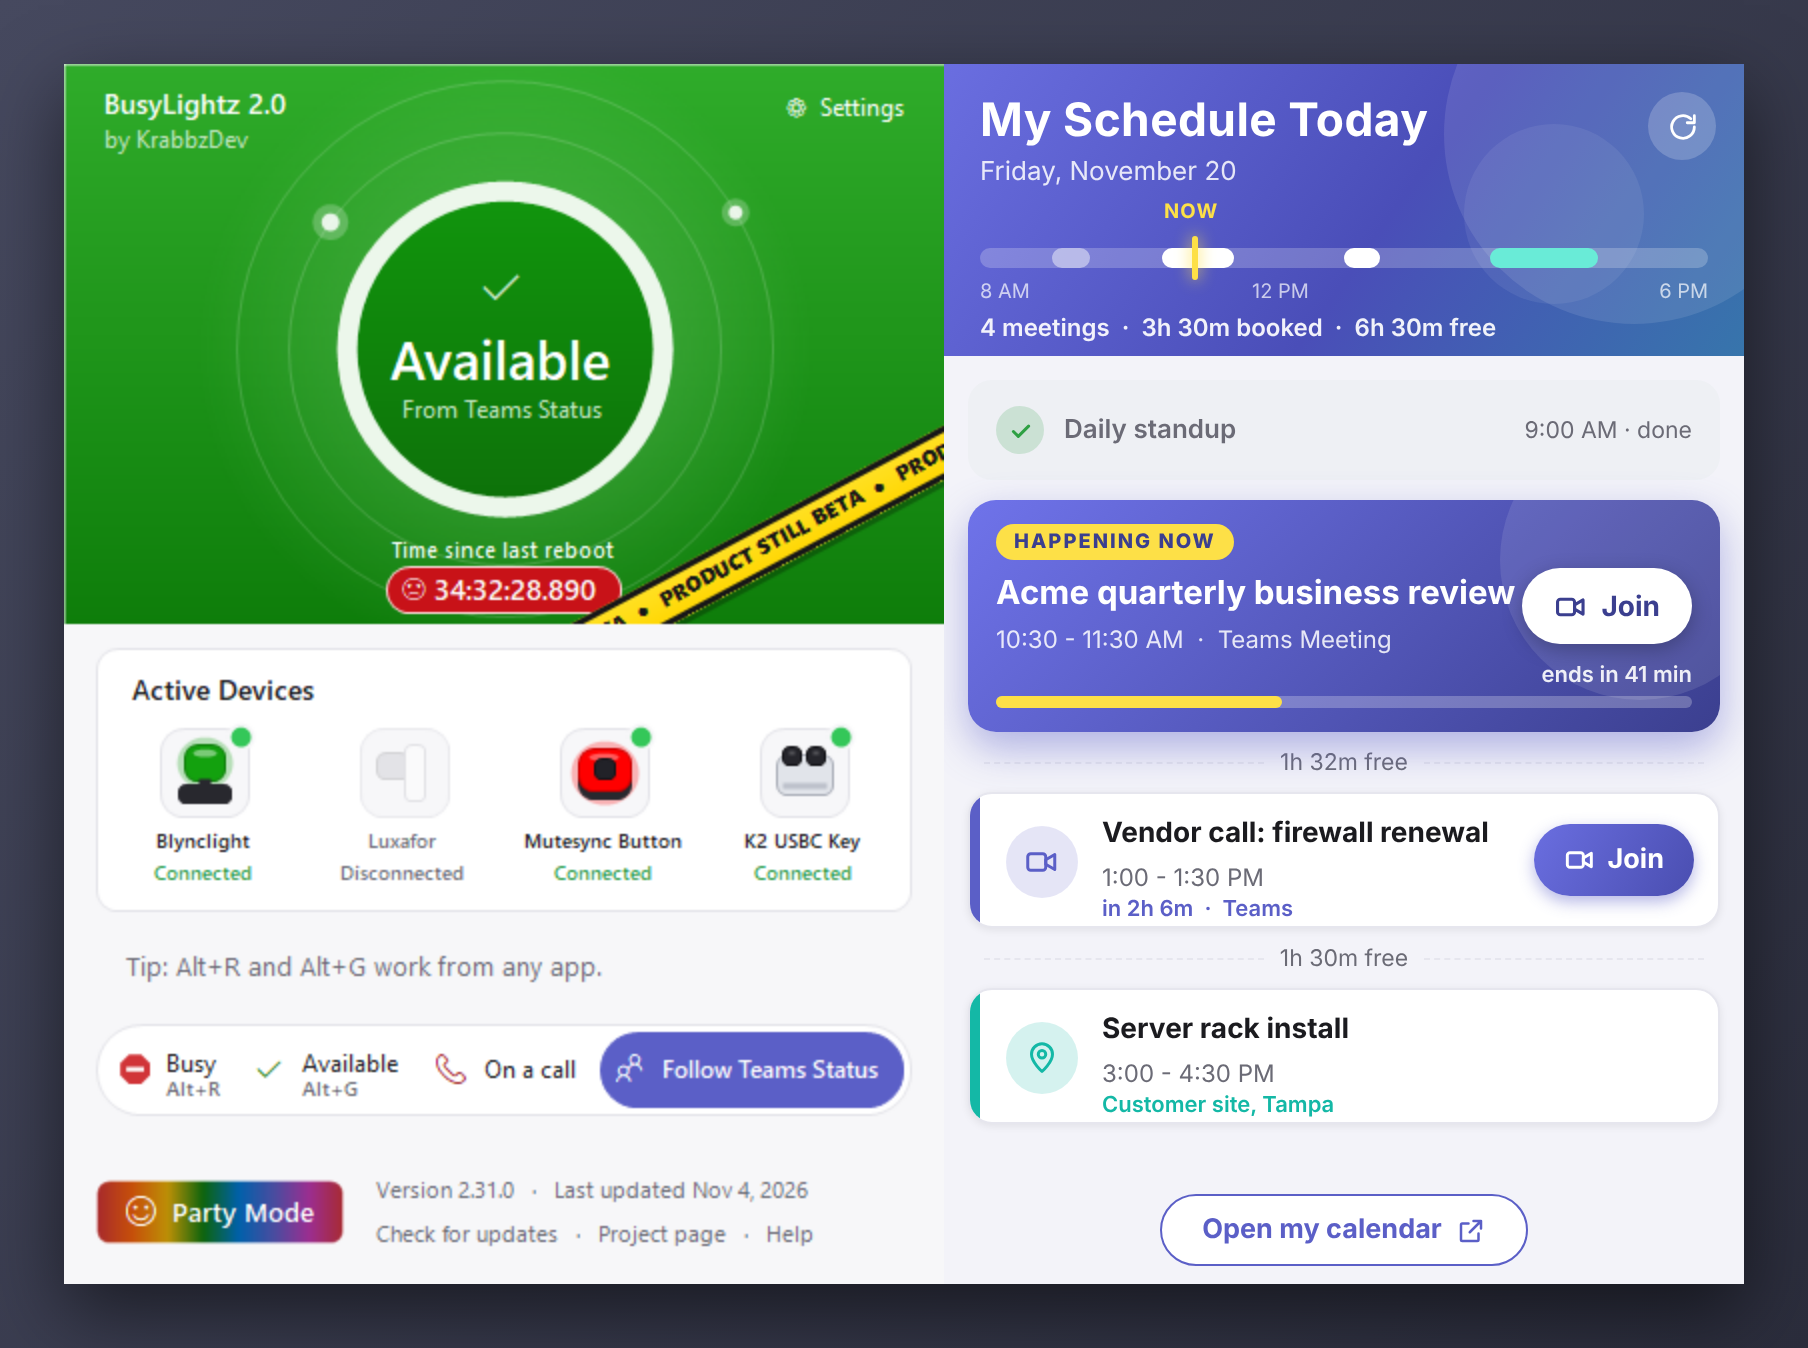
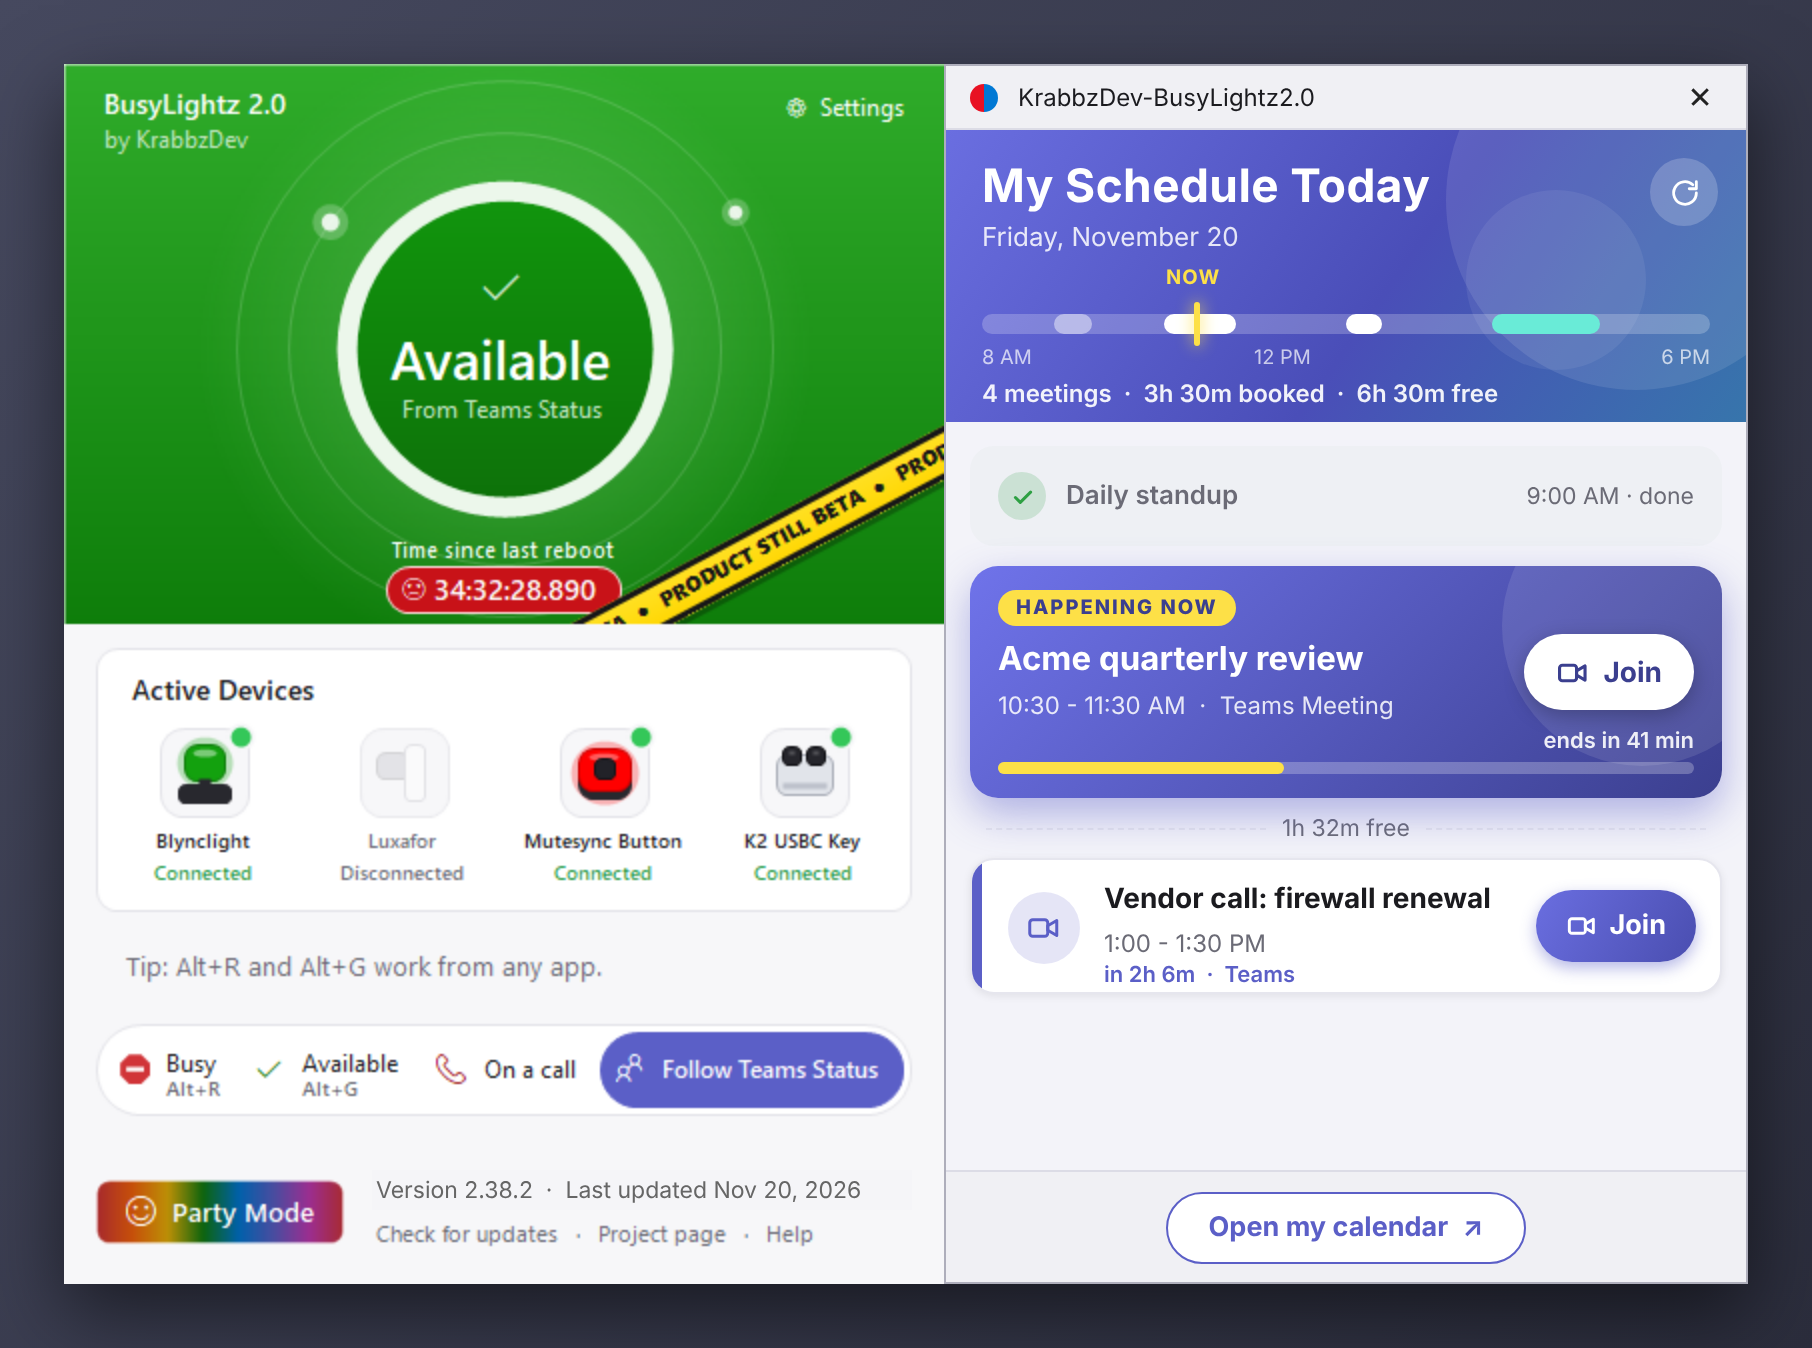
Add a close button to the schedule panel's title bar; update the guide and its picture
Claude-Session: https://claude.ai/code/session_01GA9X8tEuuR7MS1XohWZLFh

diff --git a/src/MeetingAlerts.cs b/src/MeetingAlerts.cs
@@ -792,6 +792,8 @@ namespace Krabbz.Blynclight
         void AddTitleBar()
         {
             titleBar.Bounds = new Rectangle(Frame, Frame, FormWidth, TitleHeight);
+            var closeRect = new Rectangle(FormWidth - 46, 0, 46, TitleHeight - 1);
+            bool overClose = false;
             titleBar.Paint += (sender, e) =>
             {
                 var g = e.Graphics;
@@ -799,8 +801,30 @@ namespace Krabbz.Blynclight
                 g.Clear(BarColor);
                 using (var red = new SolidBrush(Color.FromArgb(232, 17, 35))) g.FillPie(red, 12, 9, 14, 14, 90, 180);
                 using (var blue = new SolidBrush(Color.FromArgb(0, 120, 212))) g.FillPie(blue, 12, 9, 14, 14, 270, 180);
-                AgendaDraw.Left(g, Program.AppName, SmallFont, Theme.Text, new Rectangle(36, 0, FormWidth - 48, TitleHeight));
-                using (var pen = new Pen(Theme.Border)) g.DrawLine(pen, 0, TitleHeight - 1, FormWidth, TitleHeight - 1);
+                AgendaDraw.Left(g, Program.AppName, SmallFont, Theme.Text, new Rectangle(36, 0, FormWidth - 90, TitleHeight));
+                // The close button, red under the pointer like Windows' own.
+                if (overClose) using (var hot = new SolidBrush(Color.FromArgb(232, 17, 35))) g.FillRectangle(hot, closeRect);
+                using (var pen = new Pen(overClose ? Color.White : Theme.Text, 1.2f))
+                {
+                    int cx = closeRect.X + closeRect.Width / 2, cy = closeRect.Y + closeRect.Height / 2;
+                    g.DrawLine(pen, cx - 5, cy - 5, cx + 5, cy + 5);
+                    g.DrawLine(pen, cx - 5, cy + 5, cx + 5, cy - 5);
+                }
+                using (var line = new Pen(Theme.Border)) g.DrawLine(line, 0, TitleHeight - 1, FormWidth, TitleHeight - 1);
+            };
+            titleBar.MouseMove += (sender, e) =>
+            {
+                bool inside = closeRect.Contains(e.Location);
+                if (inside != overClose) { overClose = inside; titleBar.Invalidate(); }
+            };
+            titleBar.MouseLeave += delegate { if (overClose) { overClose = false; titleBar.Invalidate(); } };
+            // Closing it hides the panel and turns "Show today's meetings beside the window" off, so it stays away until
+            // that's switched back on in Settings > Meeting Alerts.
+            titleBar.MouseClick += (sender, e) =>
+            {
+                if (!closeRect.Contains(e.Location)) return;
+                AppSettings.AgendaBesideWindow = false;
+                Hide();
             };
             Controls.Add(titleBar);
         }

diff --git a/docs/Meeting-Alerts.md b/docs/Meeting-Alerts.md
@@ -34,9 +34,9 @@ It uses the same calendar access as the alerts, so if you haven't allowed that y
 
 ## My Schedule Today, beside the window
 
-<img src="images/window-with-schedule.png" alt="Illustration of the BusyLightz window with My Schedule Today docked against its right side: the date, then each meeting with its time, title and place, the one on now highlighted, finished ones dimmed, Join buttons on online meetings, and Open my calendar at the bottom" width="760">
+<img src="images/window-with-schedule.png" alt="Illustration of the BusyLightz window with My Schedule Today docked against its right side, in its own frame: a title bar with a close button, the date and a timeline of the day, the meeting on now highlighted, free time between meetings, Join buttons on online meetings, and an Open my calendar bar at the bottom" width="760">
 
-When you open the BusyLightz window, a **My Schedule Today** panel sits against its right side, the same height, with today's meetings in the same look as the window above: the timeline header, the meeting on now highlighted, finished ones dimmed, free time between meetings, and a **Join** button on online meetings that haven't finished. It has its own title bar and bottom bar, like the BusyLightz window, with an outline all round. It moves with the window, goes when you close or minimize it, and reads the calendar again every minute while it's showing. If the right side of the screen is too close, it goes on the left instead.
+When you open the BusyLightz window, a **My Schedule Today** panel sits against its right side, the same height, with today's meetings in the same look as the window above: the timeline header, the meeting on now highlighted, finished ones dimmed, free time between meetings, and a **Join** button on online meetings that haven't finished. It has its own title bar and bottom bar, like the BusyLightz window, with an outline all round. The **×** in its title bar hides it and turns off **Show today's meetings beside the window**, so it stays away until you switch that back on in Settings > Meeting Alerts. It moves with the window, goes when you close or minimize it, and reads the calendar again every minute while it's showing. If the right side of the screen is too close, it goes on the left instead.
 
 Turn it off with **Show today's meetings beside the window** in Settings > Meeting Alerts. If you haven't allowed calendar access yet, the panel says so, with a button to the right Settings page.
 

diff --git a/README.md b/README.md
@@ -82,7 +82,7 @@ A small pop-up shortly before each meeting in your Microsoft 365 calendar, so yo
 <img src="docs/images/window-with-schedule.png" alt="Illustration of the BusyLightz window with My Schedule Today docked against its right side: the date, then each meeting with its time, title and place, the one on now highlighted, finished ones dimmed, Join buttons on online meetings, and Open my calendar at the bottom" width="760">
 
 - **The details:** the meeting's title, start and end time, place and organizer, with a video camera icon for online meetings and a calendar for the rest.
-- **My Schedule Today, beside the window:** open BusyLightz and a panel against its right side shows the day as a timeline, with the meeting on now highlighted, the free time between meetings, and Join buttons for online ones (it can be turned off in Settings).
+- **My Schedule Today, beside the window:** open BusyLightz and a panel against its right side shows the day as a timeline, with the meeting on now highlighted, the free time between meetings, and Join buttons for online ones (in its own frame, with a × to hide it; it can also be turned off in Settings).
 - **Today's meetings:** **Today's meetings** in the tray menu opens a small window with the day's calendar: time, title and place, the meeting on now highlighted, and a **Join** button on online ones.
 - **A live timer:** the first line ticks every second like a stopwatch (*Meeting starting in 4:32*), and the alert closes by itself when the meeting starts (if it only appears late, it counts up: *Meeting started 0:42 ago*).
 - **Join, Snooze, Dismiss:** **Join** (online meetings) opens the meeting in Teams, **Snooze 2 min** brings the alert back, **Dismiss** closes it. It never takes the keyboard from what you're typing.
